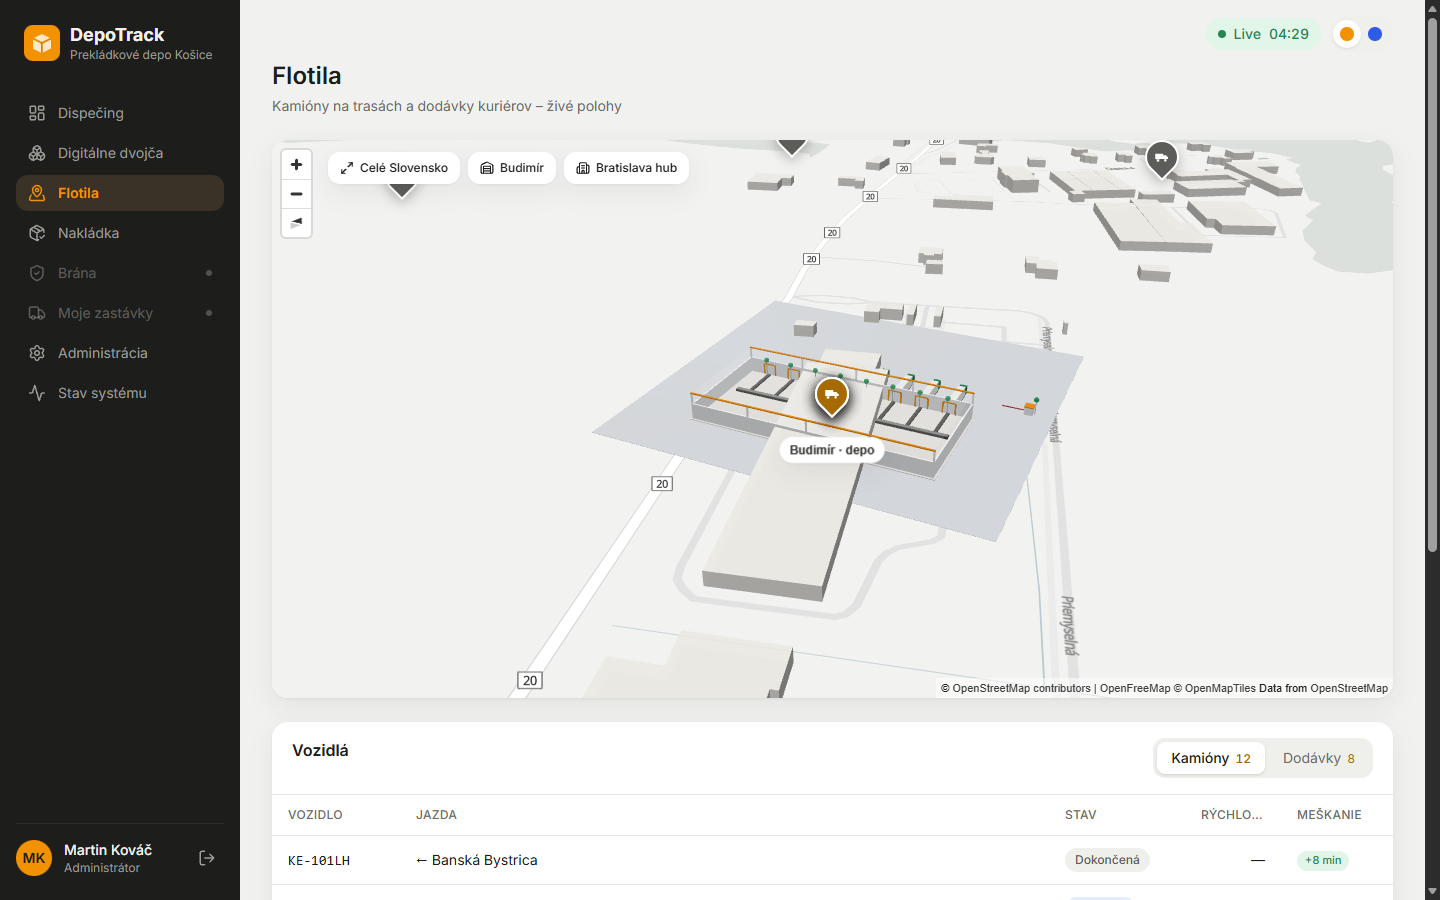
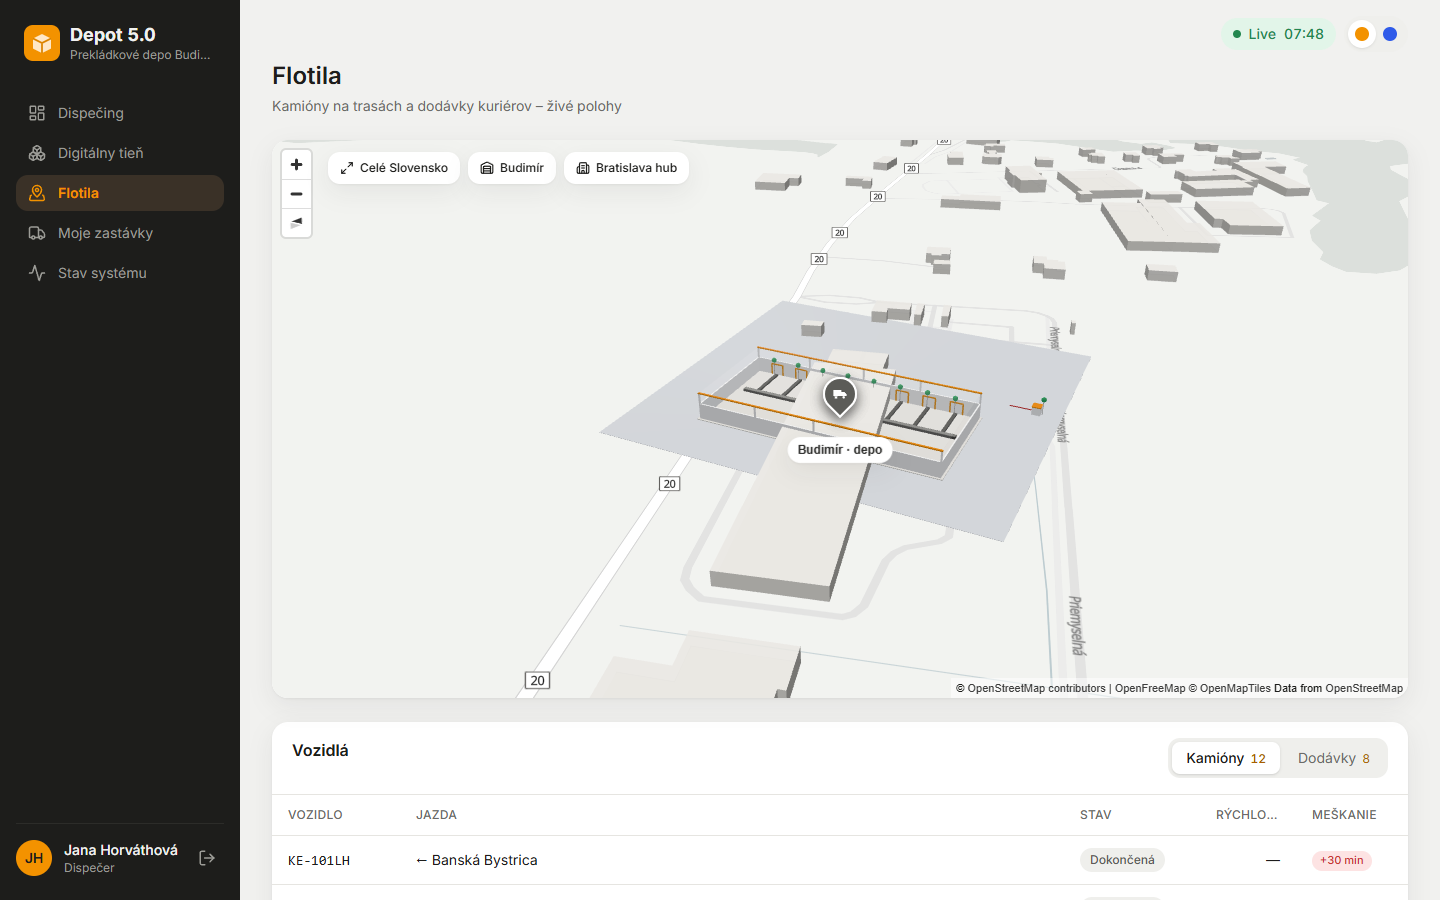
chore: pre-phase-5 - track rate limit per token, Depot 5.0 naming, digital shadow terminology
- app: /api/track limited 60/min per valid token and 10/min failed lookups per IP
  (blocked IP gets 429 for every token), uvicorn --proxy-headers with FORWARDED_ALLOW_IPS,
  explicit limits dependency, barcode prefix DP for new days, SMS "Depot 5.0:",
  tests for 5 concurrent windows, guessing and X-Forwarded-For spoofing
- frontend: Depot 5.0 branding, theme sps -> oranzova ("Oranžová"), /twin -> /shadow,
  src/twin -> src/shadow, TwinPage -> ShadowPage, tracking page keeps data on 429
- docs: ADR-042 updated, ADR-044 (naming), ADR-045 (model / shadow / twin),
  PROMPT.md team notes, README, plan-doplnky, refreshed Budimír 3D screenshot

diff --git a/frontend/src/pages/TrackPage.tsx b/frontend/src/pages/TrackPage.tsx
@@ -19,7 +19,7 @@ function Header() {
       <Logo size={30} />
       <div className="leading-tight">
         <div className="text-sm font-semibold">Sledovanie zásielky</div>
-        <div className="text-chrome-muted text-xs">SPS · DepoTrack</div>
+        <div className="text-chrome-muted text-xs">Depot 5.0</div>
       </div>
     </header>
   );
@@ -164,7 +164,7 @@ function Delivered({ t }: { t: TrackInfo }) {
       <div className="flex flex-col items-center py-8 text-center">
         <CheckCircle2 size={56} className="text-ok-600 mb-3" />
         <h1 className="text-2xl font-semibold">Doručené o {hhmm(t.deliveredAt)}</h1>
-        <p className="text-ink-muted mt-1 text-sm">Ďakujeme, že využívate SPS.</p>
+        <p className="text-ink-muted mt-1 text-sm">Ďakujeme za trpezlivosť.</p>
       </div>
     </Card>
   );
@@ -196,7 +196,9 @@ export function TrackPage() {
       </Shell>
     );
   }
-  if (q.isError || !q.data) {
+  // a 429 while polling keeps the last data on screen (several open windows of one link)
+  const throttled = isApiError(q.error, 429);
+  if (!q.data || (q.isError && !throttled)) {
     const gone = isApiError(q.error, 404) || isApiError(q.error, 422);
     return (
       <Shell>
@@ -224,6 +226,7 @@ export function TrackPage() {
         Zásielka <span className="font-mono">{t.barcode}</span>
         {t.updatedAt && t.status !== "delivered" && <> · aktualizované {hhmmss(t.updatedAt)}</>}
       </p>
+      {throttled && <p className="text-warn-600 text-center text-xs">Príliš veľa požiadaviek, údaje sa obnovia o chvíľu.</p>}
     </Shell>
   );
 }

diff --git a/frontend/src/components/map/DepotLayer.tsx b/frontend/src/components/map/DepotLayer.tsx
@@ -11,7 +11,7 @@ interface Props {
 
 /**
  * A depot/hub on the map: 3D hall when zoomed in, big warehouse marker when zoomed out, label
- * always. Clicking it opens the digital twin of that depot.
+ * always. Clicking it opens the digital shadow of that depot.
  */
 export function DepotLayer({ layout, live }: Props) {
   const map = useMap();
@@ -28,7 +28,7 @@ export function DepotLayer({ layout, live }: Props) {
     const label = document.createElement("div");
     label.className = "dt-depot-label";
     label.textContent = `${layout.depot.name}${layout.depot.kind === "hub" ? " · hub" : " · depo"}`;
-    label.addEventListener("click", () => navigate(`/twin?depot=${code}`));
+    label.addEventListener("click", () => navigate(`/shadow?depot=${code}`));
     const marker = new maplibregl.Marker({ element: label, anchor: "top", offset: [0, 18] })
       .setLngLat([layout.depot.lon, layout.depot.lat])
       .addTo(map);
@@ -38,7 +38,7 @@ export function DepotLayer({ layout, live }: Props) {
       const p = map.project([layout.depot.lon, layout.depot.lat]);
       const zoom = map.getZoom();
       const radius = zoom >= 15 ? 120 : 34;
-      if (Math.hypot(e.point.x - p.x, e.point.y - p.y) < radius) navigate(`/twin?depot=${code}`);
+      if (Math.hypot(e.point.x - p.x, e.point.y - p.y) < radius) navigate(`/shadow?depot=${code}`);
     };
     map.on("click", onClick);
     return () => {

diff --git a/frontend/src/pages/ShadowPage.tsx b/frontend/src/pages/ShadowPage.tsx
@@ -3,8 +3,8 @@ import { Link, useSearchParams } from "react-router";
 import { useLayout } from "../api/depots";
 import { Card, EmptyState, KeyValue, PageHeader, Spinner } from "../components/ui";
 
-/** Digital twin of a depot (full 3D scene arrives in phase 5); reached by clicking a depot on the map. */
-export function TwinPage() {
+/** Digital shadow of a depot (ADR-045; full 3D scene arrives in phase 5); reached by clicking a depot on the map. */
+export function ShadowPage() {
   const [params] = useSearchParams();
   const code = params.get("depot") ?? "BUD";
   const layout = useLayout(code);
@@ -20,7 +20,7 @@ export function TwinPage() {
   const hall = l.layout.hall;
   return (
     <div className="mx-auto max-w-4xl">
-      <PageHeader title={`Digitálne dvojča – ${l.depot.name}`} subtitle="3D scéna haly z tohto rozloženia pribudne vo fáze 5." />
+      <PageHeader title={`Digitálny tieň – ${l.depot.name}`} subtitle="3D scéna haly z tohto rozloženia pribudne vo fáze 5." />
       <Card>
         <div className="bg-brand-100 text-brand-700 mb-4 flex h-12 w-12 items-center justify-center rounded-xl">
           <Boxes size={22} />

diff --git a/frontend/src/main.tsx b/frontend/src/main.tsx
@@ -21,7 +21,7 @@ import { StatusPage } from "./pages/StatusPage";
 
 // map pages carry MapLibre + Three.js: loaded only when opened
 const FleetPage = lazy(() => import("./pages/FleetPage").then((m) => ({ default: m.FleetPage })));
-const TwinPage = lazy(() => import("./pages/TwinPage").then((m) => ({ default: m.TwinPage })));
+const ShadowPage = lazy(() => import("./pages/ShadowPage").then((m) => ({ default: m.ShadowPage })));
 const TrackPage = lazy(() => import("./pages/TrackPage").then((m) => ({ default: m.TrackPage })));
 const CourierPage = lazy(() => import("./pages/CourierPage").then((m) => ({ default: m.CourierPage })));
 
@@ -95,11 +95,11 @@ createRoot(root).render(
               }
             />
             <Route
-              path="twin"
+              path="shadow"
               element={
                 <RequireAuth roles={["dispatcher", "security"]}>
                   <Suspense fallback={<Spinner label="Načítavam…" className="py-20" />}>
-                    <TwinPage />
+                    <ShadowPage />
                   </Suspense>
                 </RequireAuth>
               }

diff --git a/frontend/src/components/ui/theme.ts b/frontend/src/components/ui/theme.ts
@@ -1,9 +1,9 @@
-/** Theme switching: <html data-theme="sps|modra">, remembered per browser. */
+/** Theme switching: <html data-theme="oranzova|modra">, remembered per browser. */
 
-export type Theme = "sps" | "modra";
+export type Theme = "oranzova" | "modra";
 
 export const THEMES: { id: Theme; label: string; swatch: string }[] = [
-  { id: "sps", label: "SPS (oranžová)", swatch: "#f39200" },
+  { id: "oranzova", label: "Oranžová", swatch: "#f39200" },
   { id: "modra", label: "Modrá", swatch: "#2f5be9" },
 ];
 
@@ -12,11 +12,12 @@ const KEY = "depotrack.theme";
 export function loadTheme(): Theme {
   try {
     const saved = window.localStorage.getItem(KEY);
-    if (saved === "sps" || saved === "modra") return saved;
+    if (saved === "oranzova" || saved === "modra") return saved;
   } catch {
     // storage blocked (private window): default theme
   }
-  return "sps";
+  // nothing saved, or "sps" saved before the theme was renamed (ADR-044)
+  return "oranzova";
 }
 
 export function applyTheme(theme: Theme): void {

diff --git a/frontend/src/index.css b/frontend/src/index.css
@@ -1,11 +1,11 @@
 @import "tailwindcss";
 
 /*
- * DepoTrack themes (docs/design/komponenty.md, ADR-032).
+ * Depot 5.0 themes (docs/design/komponenty.md, ADR-032).
  * Layout and component style follow docs/design/reference.png: floating white cards, soft
  * shadows, pastel status tones. Colours come from tokens, switched by <html data-theme="…">:
- *   sps    (default) – SPS-style: orange primary, black navigation, warm grey canvas
- *   modra            – blue, as in the reference screenshots
+ *   oranzova (default) – orange primary, black navigation, warm grey canvas
+ *   modra              – blue, as in the reference screenshots
  * Status tones (*-100 background, *-600 text/dot) are shared by both themes.
  */
 @theme {
@@ -18,7 +18,7 @@
   --color-ink-muted: #6b6b68;
   --color-line: #e6e5e1;
 
-  /* primary (SPS orange) */
+  /* primary (orange) */
   --color-brand-50: #fff6eb;
   --color-brand-100: #ffe8c7;
   --color-brand-500: #f39200;

diff --git a/frontend/src/components/Layout.tsx b/frontend/src/components/Layout.tsx
@@ -21,7 +21,7 @@ import { Logo } from "./ui";
 
 const ICONS: Record<string, LucideIcon> = {
   "/": LayoutDashboard,
-  "/twin": Boxes,
+  "/shadow": Boxes,
   "/fleet": MapPinned,
   "/loading": PackageCheck,
   "/gate": ShieldCheck,
@@ -94,7 +94,7 @@ export function Layout() {
         <div className="mb-3 flex items-center gap-2.5 px-2 md:mb-8">
           <Logo size={36} />
           <div className="min-w-0">
-            <div className="text-lg leading-tight font-bold">DepoTrack</div>
+            <div className="text-lg leading-tight font-bold">Depot 5.0</div>
             <div className="text-chrome-muted truncate text-xs">Prekládkové depo Budimír</div>
           </div>
         </div>

diff --git a/frontend/src/auth/roles.ts b/frontend/src/auth/roles.ts
@@ -38,7 +38,7 @@ export function canAccess(role: Role, roles: Role[]): boolean {
 
 export const NAV: NavItem[] = [
   { to: "/", label: "Dispečing", roles: ["dispatcher"], ready: true },
-  { to: "/twin", label: "Digitálne dvojča", roles: ["dispatcher", "security"], ready: true },
+  { to: "/shadow", label: "Digitálny tieň", roles: ["dispatcher", "security"], ready: true },
   { to: "/fleet", label: "Flotila", roles: ["dispatcher"], ready: true },
   { to: "/loading", label: "Nakládka", roles: ["operator"], ready: true },
   { to: "/gate", label: "Brána", roles: ["security"], ready: false },

diff --git a/telematics/src/app.ts b/telematics/src/app.ts
@@ -35,7 +35,7 @@ export async function buildApp({ logLevel, allowedOrigins, db }: AppDeps): Promi
   await app.register(swagger, {
     openapi: {
       info: {
-        title: "DepoTrack Telematics API",
+        title: "Depot 5.0 Telematics API",
         description:
           "Simulátor, simulované hodiny, telemetria a WebSocket stream udalostí (ws://…/ws?ticket=…). " +
           "Ovládanie simulácie vyžaduje ticket roly admin z app (`Authorization: Bearer <ticket>`).",

diff --git a/frontend/src/pages/LoginPage.tsx b/frontend/src/pages/LoginPage.tsx
@@ -41,8 +41,8 @@ export function LoginPage() {
         <div className="mb-6 flex items-center gap-3">
           <Logo size={40} />
           <div>
-            <h1 className="text-xl font-semibold">DepoTrack</h1>
-            <p className="text-ink-muted text-sm">SPS depo Košice</p>
+            <h1 className="text-xl font-semibold">Depot 5.0</h1>
+            <p className="text-ink-muted text-sm">Prekládkové depo Budimír</p>
           </div>
         </div>
 

diff --git a/frontend/src/pages/LoadingPage.tsx b/frontend/src/pages/LoadingPage.tsx
@@ -81,7 +81,7 @@ function ManualScan({ door }: { door: string }) {
             ref={input}
             value={code}
             onChange={(e) => setCode(e.target.value)}
-            placeholder="SPS…"
+            placeholder="DP…"
             autoComplete="off"
             className="border-line focus:border-brand-500 focus:ring-brand-100 w-full rounded-2xl border py-4 pr-4 pl-12 font-mono text-lg outline-none focus:ring-4"
           />

diff --git a/frontend/src/components/map/depot3d.ts b/frontend/src/components/map/depot3d.ts
@@ -1,5 +1,5 @@
 /**
- * 3D model of a depot/hub built from the same layout as /twin (GET /api/layout), rendered inside
+ * 3D model of a depot/hub built from the same layout as /shadow (GET /api/layout), rendered inside
  * MapLibre as a custom WebGL layer with Three.js (ADR-040).
  *
  * Model space: metres, x = east, y = up, z = south (layout y). Low-poly primitives in the style of
